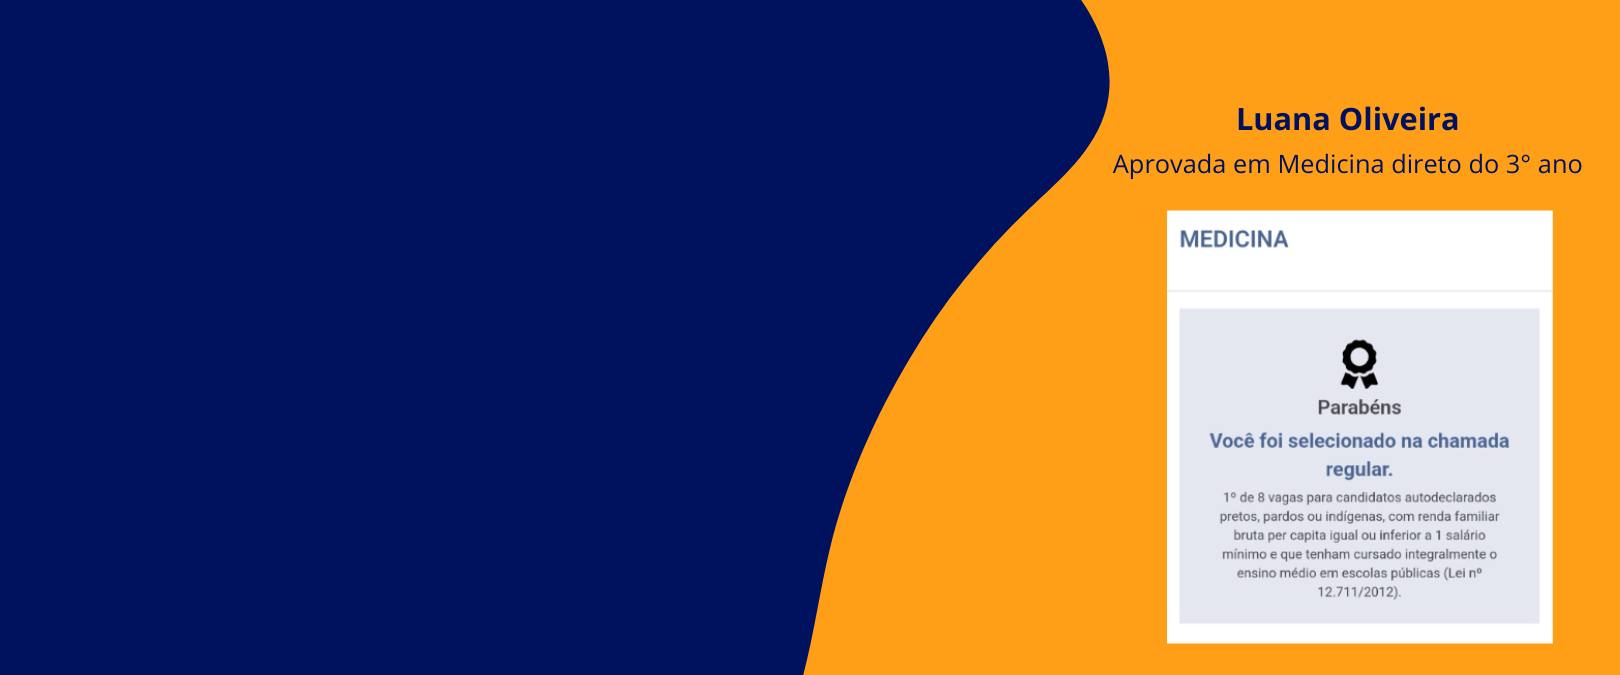
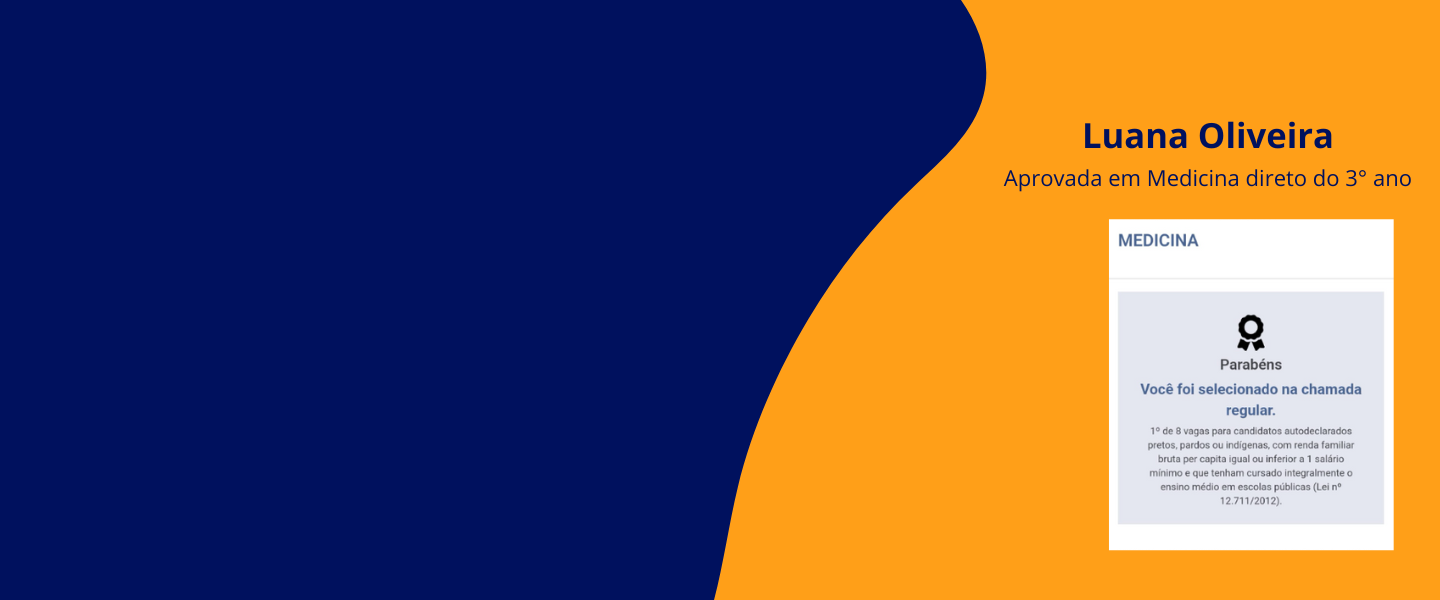
atualização

Changed region(s): [[0.6875, 0.15, 0.9688, 0.96]]

diff --git a/css/styles.css b/css/styles.css
@@ -14,7 +14,9 @@ body{
 .cabecalho{
     margin: 0 auto; 
 }
-
+a{
+    text-decoration: none;
+}
 body{
     background-color: #F7F7F7;
     height: 100vh;
@@ -166,6 +168,11 @@ section.topo-do-site{
     justify-content: center; /* Centraliza horizontalmente */
     align-items: center;/* Centraliza verticalmente (se necessário) */
 }
+.aluna-medicina{
+    box-sizing: border-box;
+    position: relative;
+    top: 5px;
+}
 
 /* Segunda parte do topo do site */
 
@@ -273,7 +280,7 @@ section.topo-do-site{
     height: auto; /* Permite que a altura cresça conforme necessário */
 }
 
-.interface .item p{
+.interface .item p, span{
     color: #25272D;
     font-weight: bold;
     font-family: 'Franklin Gothic Medium', 'Arial Narrow', Arial, sans-serif;
@@ -288,6 +295,9 @@ section.topo-do-site{
 .interface .depoimentos h1{
     color: #ebebeb;
     text-shadow: #1b1a1a99 5px 1px 2px;
+}
+#arrasta-carousel{
+    text-align: center;
 }
 .fotos-alunos img{
     border-radius: 10px;
@@ -317,7 +327,6 @@ section.topo-do-site{
 /* Sobre */
 
 .sobre .professores{
-    border: 2px solid rgb(38, 255, 0);
     height: 400px;
     width: 300px;
     background-color: #00115E;
@@ -330,14 +339,12 @@ section.topo-do-site{
 }
 
 .img-professores img{
-    border: 2px solid red;
     border-radius: 50%;
     background-color: #FF9F18;
     width: 50%;
 }
 .img-professores{
     margin-top: 20px;
-    border: 3px solid rgb(64, 0, 255);
     text-align: center;
 }
 #renan-mexer{
@@ -345,20 +352,15 @@ section.topo-do-site{
     top: 20px;
 }
 .setor{
-    border: 2px solid red;
     margin-top: 20px;
 }
 .descricao-professores{
     font-size: 20px;
-    border: 2px solid red;
 }
 .sobre{
-    border: 2px solid red;
     margin-top: 50px;
     text-align: center;
     padding: 40px;
-    
-
 }
 .sobre h1{
     font-family: 'Franklin Gothic Medium';
@@ -368,7 +370,114 @@ section.topo-do-site{
 }
 .sobre .flex{
     margin-top: 20px;
-    border: 2px solid red;
     justify-content: center;
     gap: 100px;
 }
+
+/* Menu-mobile */
+
+.menu-mobile{
+    background-color: #000;
+    height: 1000vh;
+    position: fixed;
+    top: 0;
+    right: 0;
+    z-index: 99999;
+    width: 0%;
+    overflow: hidden;
+    transition: .5s;
+}
+
+.menu-mobile.abrir-menu{
+    width: 70%;
+}
+.btn-abrir-menu{
+    display: none;
+}
+
+
+/* Footer */
+footer{
+    background-color: #000621;
+}
+footer .nome-professores, .redes-sociais, .direitos-reservados {
+    padding: 54px;
+    margin: auto;
+}
+footer .nome-professores p{
+    font-family: Arial, Helvetica, sans-serif;
+    font-size: 14px;
+    padding: 10px 20px;
+}
+
+footer .redes-sociais i{
+    color: #f19008;
+    background-color: #d5caca3e;
+    padding: 10px 8px;
+    margin: 2px;
+    font-family:Arial, Helvetica, sans-serif;
+    border-radius: 6px;
+    font-size: 13px;
+    transition: .2s;
+    display: block;
+
+}
+footer .redes-sociais i:hover{
+    transform: scale(1.0);
+    background-color: #f19008;
+    color: #dcd8d8;
+}
+footer .direitos-reservados p{
+    font-size: 12px;
+    font-family: Arial, Helvetica, sans-serif;
+}
+
+
+@media screen and (max-width: 928px){
+.flex{
+    flex-direction: column;
+}
+.sobre .professores{
+    height: 400px;
+    width: 300px;
+    background-color: #00115E;
+    text-align: center;
+    border-radius: 6px;
+    margin: auto;
+}
+.linha{
+    height: 2px;
+    width: 200px;
+    background-color: #dcd8d8;
+    margin: auto;
+}
+}
+
+@media screen and (min-width: 1300px){
+    section.topo-do-site{
+        /* border: 12px solid rgb(255, 225, 0); */
+        background-image: url("/img/banner2.png");
+        box-shadow: 24px 2px 18px rgb(0, 0, 0);
+        background-size: cover;
+        background-position: center;
+    }
+}
+
+@media screen and (max-width: 924px){
+
+    .texto-capa {
+        padding-top: 50px;
+        /* border: 2px solid red; */
+        max-width: 630px;
+        margin: auto;
+    }
+    .aluna-medicina{
+        margin: auto;
+    }
+     /* Cabeçalho */
+     header .menu-desktop, header .btn-contato{
+        display: none;
+    }
+
+    
+    }

diff --git a/html/index.html b/html/index.html
@@ -8,6 +8,8 @@
     <link rel="stylesheet" href="https://cdnjs.cloudflare.com/ajax/libs/OwlCarousel2/2.3.4/assets/owl.theme.default.min.css" integrity="sha512-sMXtMNL1zRzolHYKEujM2AqCLUR9F2C4/05cdbxjjLSRvMQIciEPCQZo++nk7go3BtSuK9kfa/s+a4f4i5pLkw==" crossorigin="anonymous" referrerpolicy="no-referrer" />
     <link rel="stylesheet" href="https://cdnjs.cloudflare.com/ajax/libs/magnific-popup.js/1.2.0/magnific-popup.min.css">
     <!-- Carrossel -->
+    <!-- Boodstrap -->
+    <link rel="stylesheet" href="https://cdn.jsdelivr.net/npm/bootstrap-icons@1.11.3/font/bootstrap-icons.min.css">
     <link rel="stylesheet" href="/css/styles.css">
     <title>Cursinho</title>
 </head>
@@ -23,17 +25,17 @@
                 <nav class = "menu-desktop">
                     <ul>
                         <li> <a href="#"> Inicio </a> </li>
-                        <li> <a href="#"> Diferenciais </a></li>
-                        <li> <a href="#"> sobre </a> </li>
+                        <li> <a href="#"> Planos </a></li>
+                        <li> <a href="#"> Professores </a> </li>
                     </ul>
                   </nav> <!--Menu-->
             
 
-            <div class="btn-button">
-                <a href="#">
-                    <button> Assine já </button>
-                </a>
-                
+                <div class="btn-button">
+                    <a href="#">
+                        <button> acessar </button>
+                    </a>
+                </div>
             </div>
         </div>
     </header>
@@ -134,6 +136,7 @@
                 </p>
             </div>
         </div>
+        <p id="arrasta-carousel"> Arrasta para o lado -></p>
     </div>
 
     <section class="sobre">
@@ -142,7 +145,7 @@
             <div class="flex">
                 <div class="professores">
                     <div class="setor">
-                        <h1>PROFESSOR</h1>
+                        <h1>RENAN</h1>
                     </div>
                     <div class="img-professores">
                         <img src="/img/renan.png" alt="">
@@ -155,7 +158,7 @@
                 
                 <div class="professores">
                     <div class="setor">
-                        <h1>PROFESSOR</h1>
+                        <h1>RAÍ</h1>
                     </div>
                     <div class="img-professores">
                         <img src="/img/rai.png" alt="">
@@ -173,7 +176,28 @@
     
 </main>
 
+<footer>
+    <div class="flex">
+        <div class="nome-professores">
+            <p>Professor - Renan Rocha Santiago Leite </p>
+            <p>Professor - Raí da Silva Rodrigues </p>
+        </div>
 
+        <div class="linha"></div>
+
+        <div class="redes-sociais">
+            <a href="https://www.instagram.com/renanrocha.sl/"><i class="bi bi-instagram">renanrocha</i></a>
+            <a href="https://www.instagram.com/rairedacao/"><i class="bi bi-instagram">rairedacao</i></a>
+        </div>
+
+        <div class="linha"></div>
+
+        <div class="direitos-reservados">
+            <p>&copy; TODOS OS DIREITOS RESERVADOS 2024</p>
+        </div>
+    </div>
+    
+</footer>
 <script src="https://cdnjs.cloudflare.com/ajax/libs/jquery/3.7.1/jquery.min.js" integrity="sha512-v2CJ7UaYy4JwqLDIrZUI/4hqeoQieOmAZNXBeQyjo21dadnwR+8ZaIJVT8EE2iyI61OV8e6M8PP2/4hpQINQ/g==" crossorigin="anonymous" referrerpolicy="no-referrer"></script>
 <script src="https://cdnjs.cloudflare.com/ajax/libs/OwlCarousel2/2.3.4/owl.carousel.min.js" integrity="sha512-bPs7Ae6pVvhOSiIcyUClR7/q2OAsRiovw4vAkX+zJbw3ShAeeqezq50RIIcIURq7Oa20rW2n2q+fyXBNcU9lrw==" crossorigin="anonymous" referrerpolicy="no-referrer"></script>
 <script src="//cdnjs.cloudflare.com/ajax/libs/magnific-popup.js/1.2.0/jquery.magnific-popup.min.js"></script>

diff --git a/js/js.js b/js/js.js
@@ -35,7 +35,7 @@ $('.owl-carousel').owlCarousel({
     nav:true,
     responsive:{
         0:{
-            items:2
+            items:1
         },
         600:{
             items:2
